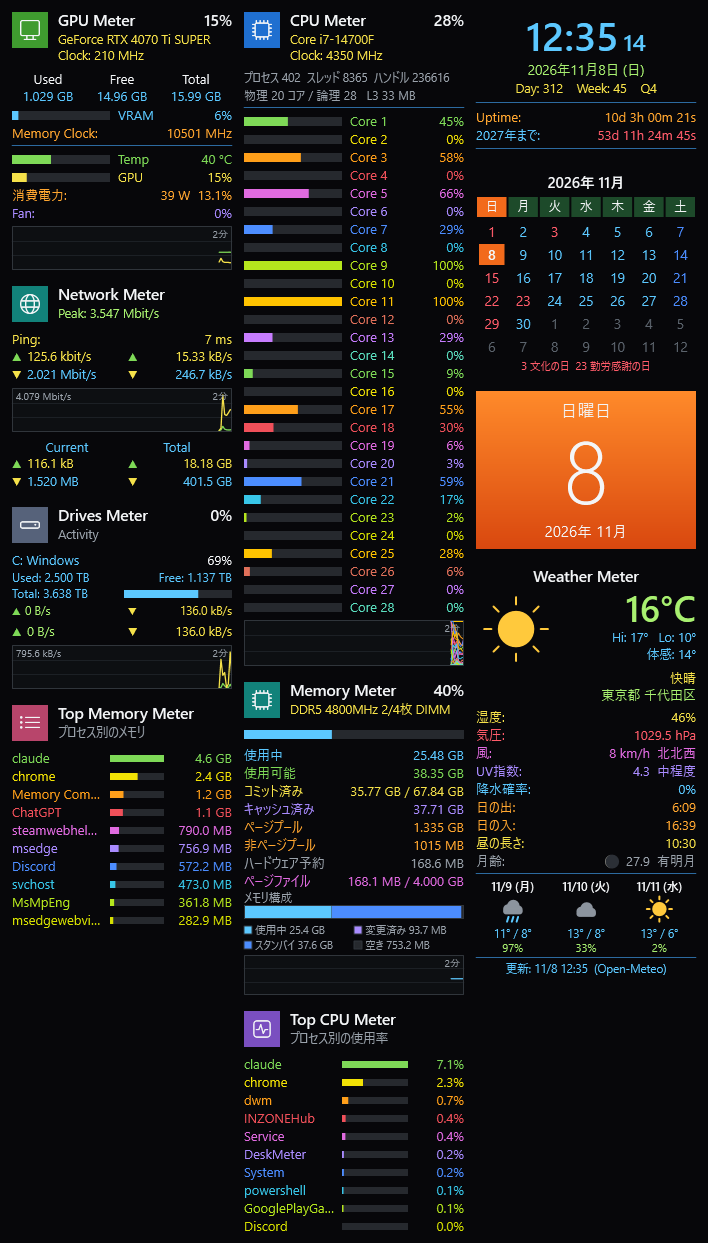
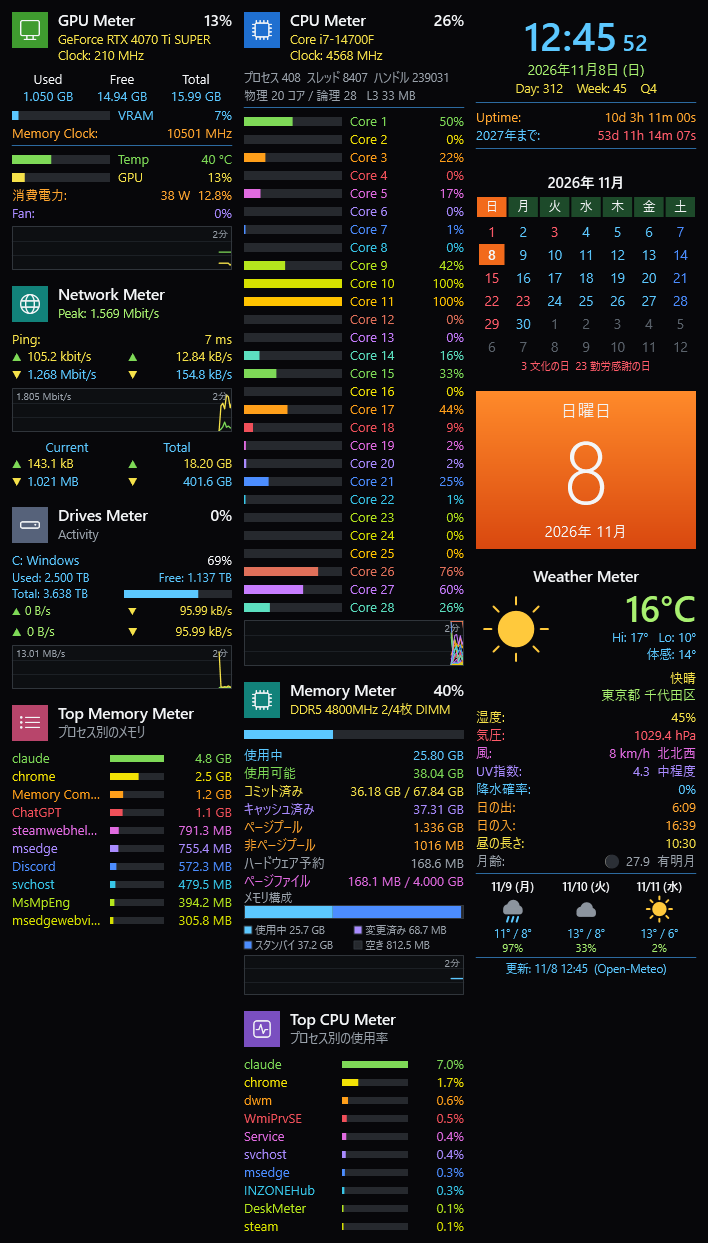
角なしスキンのリングゲージを四角いゲージにし、Cyberpunk Sharp / Retro Sharp を追加
- Sharp のスキンではリングを「下が開いた四角」(左下 → 上 → 右下) で描き、ペンの端と角も直角にする
- Sharpen() で既存スキンの角丸を全部なくす。ClassicSharp もこれを使う
- プレビュー 2 枚、README (15 種)、ヘルプ、make-previews.ps1 (複数スキンを引数で受ける) を更新

diff --git a/help/custom-skin.html b/help/custom-skin.html
@@ -30,7 +30,7 @@
 <p class="meta">DeskMeter ヘルプ · 2026-11-08</p>
 
 <h2>概要</h2>
-<p>DeskMeter.exe と同じフォルダーの <code>skins</code> フォルダーに JSON ファイルを置くと、それがスキンになります。ファイル名 (拡張子を除いたもの) がそのままスキン名で、右クリックメニューの「スキン」で、組み込みの 13 種の下に区切り線を挟んで並びます。メニューを開くたびにフォルダーを見直すので、ファイルを足したり消したりしても再起動は要りません。</p>
+<p>DeskMeter.exe と同じフォルダーの <code>skins</code> フォルダーに JSON ファイルを置くと、それがスキンになります。ファイル名 (拡張子を除いたもの) がそのままスキン名で、右クリックメニューの「スキン」で、組み込みの 15 種の下に区切り線を挟んで並びます。メニューを開くたびにフォルダーを見直すので、ファイルを足したり消したりしても再起動は要りません。</p>
 <ul>
   <li>置き場所: DeskMeter.exe と同じフォルダーの <code>skins\</code> (無ければ作ってください)</li>
   <li>雛形: <code>skins\example-ocean.json</code> (青緑系)。これをコピーして別名にし、色を書き換えるのが近道です。</li>
@@ -168,7 +168,7 @@
   <tr><td><code>GraphArea</code></td><td>true / false</td><td>グラフの折れ線の下を薄く塗る</td></tr>
   <tr><td><code>Decor</code></td><td>"sakura" / "hearts" / "stars" / "bubbles" / "dots" / "grid" / "rain" / "lines"</td><td>背景の飾り: 桜の花びら / ハート / きらきら / 泡 / 水玉 / 夕焼けの遠近グリッド / 緑の文字の雨 / ノートの罫線</td></tr>
   <tr><td><code>DecorColor</code></td><td>色</td><td>飾りの色 (透明度は自動で付く)</td></tr>
-  <tr><td><code>Sharp</code></td><td>true / false</td><td>true で角丸を一切使わない (バー・日付タイル・配置編集の枠も直角)。<code>CornerRadius</code> / <code>TileRadius</code> / <code>CardRadius</code> を 0 にするのと合わせて使う。組み込みの Classic Sharp がこの設定</td></tr>
+  <tr><td><code>Sharp</code></td><td>true / false</td><td>true で角丸を一切使わない (バー・日付タイル・配置編集の枠も直角、リングゲージは四角いゲージになる)。<code>CornerRadius</code> / <code>TileRadius</code> / <code>CardRadius</code> を 0 にするのと合わせて使う。組み込みの Classic Sharp / Cyberpunk Sharp / Retro Sharp がこの設定</td></tr>
   <tr><td><code>Mascot</code></td><td>"cat" / "bunny" / "bear"</td><td>いちばん空いている列の下に描くキャラクター。空きが 64px 未満なら描かない</td></tr>
   <tr><td><code>MascotBody</code> / <code>MascotAccent</code> / <code>MascotEye</code></td><td>色</td><td>キャラクターの体 / 耳の内側・ほっぺ / 目の色</td></tr>
 </table>

diff --git a/src/MeterExtras.cs b/src/MeterExtras.cs
@@ -323,25 +323,50 @@ namespace DeskMeter
         readonly Dictionary<Brush, Pen> ringPens = new Dictionary<Brush, Pen>();
         Pen ringTrack;
 
-        static Pen RoundPen(Brush b, double thick)
+        // 角なしのスキンでは端も角も直角のペン
+        Pen RoundPen(Brush b, double thick)
         {
             var pen = new Pen(b, thick);
-            pen.StartLineCap = PenLineCap.Round;
-            pen.EndLineCap = PenLineCap.Round;
+            pen.StartLineCap = sk.Sharp ? PenLineCap.Flat : PenLineCap.Round;
+            pen.EndLineCap = sk.Sharp ? PenLineCap.Flat : PenLineCap.Round;
+            pen.LineJoin = PenLineJoin.Miter;
             pen.Freeze();
             return pen;
         }
 
-        // 左下から時計回りに 270° のリング
+        // 左下から時計回りに 270° のリング。角なしのスキンでは下が開いた四角 (左下 → 上 → 右下)
         void Ring(DrawingContext dc, double cx, double cy, double r, double thick, double frac, Brush color)
         {
             if (ringTrack == null) ringTrack = RoundPen(Track, thick);
-            dc.DrawGeometry(null, ringTrack, Arc(cx, cy, r, 135, 270));
+            dc.DrawGeometry(null, ringTrack, sk.Sharp ? SquareArc(cx, cy, r, 1) : Arc(cx, cy, r, 135, 270));
             frac = Math.Max(0, Math.Min(1, frac));
             if (frac < 0.005) return;
             Pen pen;
             if (!ringPens.TryGetValue(color, out pen)) { pen = RoundPen(color, thick); ringPens[color] = pen; }
-            dc.DrawGeometry(null, pen, Arc(cx, cy, r, 135, 270 * frac));
+            dc.DrawGeometry(null, pen, sk.Sharp ? SquareArc(cx, cy, r, frac) : Arc(cx, cy, r, 135, 270 * frac));
+        }
+
+        // 四角いゲージ: 左下の角から左辺を上がり、上辺を右へ、右辺を下がって右下の角まで (周の 3/4)。frac はその長さに対する割合
+        static StreamGeometry SquareArc(double cx, double cy, double r, double frac)
+        {
+            double side = r * 2 * 0.92;   // 円のリングと同じくらいの見た目の大きさに
+            double h = side / 2;
+            Point[] pts = { new Point(cx - h, cy + h), new Point(cx - h, cy - h), new Point(cx + h, cy - h), new Point(cx + h, cy + h) };
+            double remain = side * 3 * frac;
+            var g = new StreamGeometry();
+            using (StreamGeometryContext ctx = g.Open())
+            {
+                ctx.BeginFigure(pts[0], false, false);
+                for (int i = 1; i < pts.Length && remain > 0; i++)
+                {
+                    double seg = Math.Min(side, remain);
+                    double t = seg / side;
+                    ctx.LineTo(new Point(pts[i - 1].X + (pts[i].X - pts[i - 1].X) * t, pts[i - 1].Y + (pts[i].Y - pts[i - 1].Y) * t), true, false);
+                    remain -= seg;
+                }
+            }
+            g.Freeze();
+            return g;
         }
 
         static StreamGeometry Arc(double cx, double cy, double r, double startDeg, double sweepDeg)

diff --git a/src/Skin.cs b/src/Skin.cs
@@ -76,7 +76,7 @@ namespace DeskMeter
             return r;
         }
 
-        public static readonly string[] BuiltIn = { "Classic", "ClassicSharp", "Cyberpunk", "Retro", "Light", "KawaiiPink", "KawaiiMint", "Synthwave", "Matrix", "Nord", "Dracula", "Frost", "Notebook" };
+        public static readonly string[] BuiltIn = { "Classic", "ClassicSharp", "Cyberpunk", "CyberpunkSharp", "Retro", "RetroSharp", "Light", "KawaiiPink", "KawaiiMint", "Synthwave", "Matrix", "Nord", "Dracula", "Frost", "Notebook" };
 
         // 組み込み + skins フォルダーのスキン名 (呼ぶたびにフォルダーを見直す)
         public static string[] Names
@@ -131,7 +131,9 @@ namespace DeskMeter
                 case "Classic": return "Classic";
                 case "ClassicSharp": return "Classic Sharp (角なし)";
                 case "Cyberpunk": return "Cyberpunk (ネオン)";
+                case "CyberpunkSharp": return "Cyberpunk Sharp (ネオン・角なし)";
                 case "Retro": return "Retro (アンバーCRT)";
+                case "RetroSharp": return "Retro Sharp (アンバーCRT・角なし)";
                 case "Light": return "Light (明るい壁紙向け)";
                 case "KawaiiPink": return "Kawaii Pink (さくら・うさぎ)";
                 case "KawaiiMint": return "Kawaii Mint (ミント・ねこ)";
@@ -150,7 +152,9 @@ namespace DeskMeter
             switch (name)
             {
                 case "Cyberpunk": return Cyberpunk();
+                case "CyberpunkSharp": return Sharpen(Cyberpunk(), "CyberpunkSharp");
                 case "Retro": return Retro();
+                case "RetroSharp": return Sharpen(Retro(), "RetroSharp");
                 case "Light": return Light();
                 case "Classic": return Classic();
                 case "ClassicSharp": return ClassicSharp();
@@ -411,15 +415,17 @@ namespace DeskMeter
             return s;
         }
 
-        // Classic の色のまま、角丸を全部なくしたもの (窓・見出しアイコン・バー・日付タイル)
-        public static Skin ClassicSharp()
+        // Classic の色のまま、角丸を全部なくしたもの (窓・見出しアイコン・バー・日付タイル・リングゲージ)
+        public static Skin ClassicSharp() { return Sharpen(Classic(), "ClassicSharp"); }
+
+        // 既存のスキンの角丸を全部なくす (Sharp 版を作る)
+        static Skin Sharpen(Skin s, string name)
         {
-            Skin s = Classic();
-            s.Name = "ClassicSharp";
+            s.Name = name;
             s.CornerRadius = 0;
             s.TileRadius = 0;
             s.CardRadius = 0;
-            s.BarStyle = "flat";
+            if (s.BarStyle == "pill") s.BarStyle = "flat";
             s.Sharp = true;
             return s;
         }

diff --git a/README.md b/README.md
@@ -24,7 +24,7 @@ Rainmeter 風の、デスクトップ常駐リソースモニターです。Wind
 
 ## 見た目のカスタマイズ
 
-- **スキン** 13 種（Classic / Classic Sharp（角丸なし）/ Cyberpunk / Retro / Light / Kawaii Pink / Kawaii Mint / Synthwave / Matrix / Nord / Dracula / Frost / Notebook）。`skins\*.json` で自作もできます（`help\custom-skin.html`）。
+- **スキン** 15 種（Classic / Cyberpunk / Retro と、その角丸なしの Sharp 版 / Light / Kawaii Pink / Kawaii Mint / Synthwave / Matrix / Nord / Dracula / Frost / Notebook）。`skins\*.json` で自作もできます（`help\custom-skin.html`）。
 - **配置の編集**: 右クリック →「配置の編集」でパネルをドラッグして並べ替え。列は最大 6 つ。画面に収まらない移動は元に戻され、「配置を元に戻す」で直前の移動を取り消せます。
 - **パネルの切り離し**: パネルごとに独立ウィンドウにして、別モニターにも置けます。
 - **配置プリセット** と **テーマ**（スキン・配置・画像などの一式を保存・切替）。

diff --git a/CHANGELOG.md b/CHANGELOG.md
@@ -2,6 +2,11 @@
 
 各版の zip と SHA-256 は [Releases](../../releases) にあります。
 
+## 未リリース
+
+- 角なしのスキンでは、リングゲージも下が開いた四角いゲージになります。
+- **Cyberpunk Sharp** と **Retro Sharp** を追加しました (それぞれの色のまま角丸なし)。
+
 ## v0.3.10 (2026-11-08)
 
 - スキン **Classic Sharp** を追加しました。Classic の色のまま、窓・見出しアイコン・バー・日付タイル・配置編集の枠の角丸をすべて直角にしたものです。自作スキンでも `"Sharp": true` で同じ描画になります。
